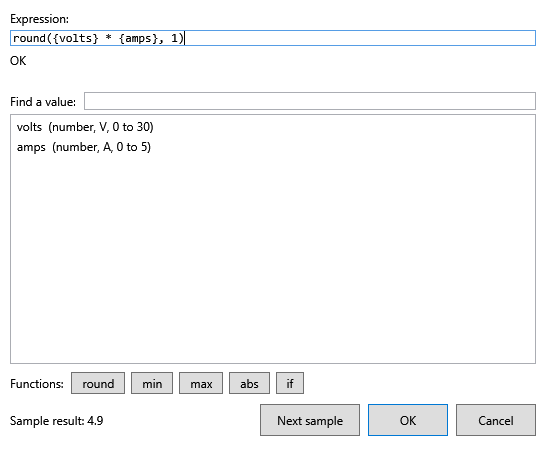
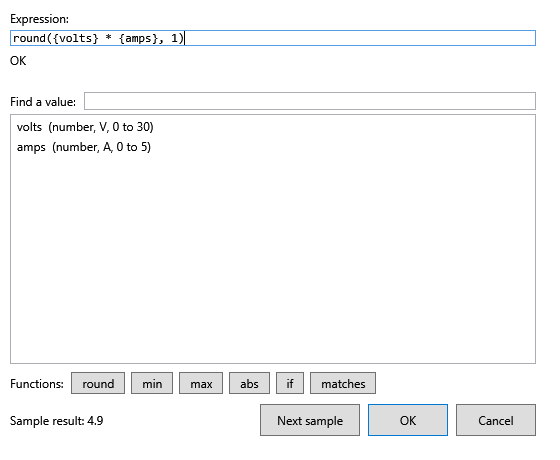
Expression picker: matches button; Next sample moves to the OK row in the TUI

Changed region(s): [[0.5464, 0.7913, 0.6982, 0.8826]]

diff --git a/src/DevTerm.DeviceManifests/Editing/ExpressionPickerViewModel.cs b/src/DevTerm.DeviceManifests/Editing/ExpressionPickerViewModel.cs
@@ -4,7 +4,7 @@ using DevTerm.UiDefinitions;
 namespace DevTerm.DeviceManifests.Editing;
 
 /// <summary>One function the expression language offers, with the snippet the picker inserts for it.</summary>
-public sealed record ExpressionFunction(string Name, string Signature, string Description, string Snippet);
+public sealed record ExpressionFunction(string Name, string Signature, string Description, string Snippet, int CaretFromEnd = 1);
 
 /// <summary>One row of the picker's path list: a <see cref="ValuePath"/> plus how to show it.</summary>
 public sealed record PickerPath(ValuePath Path, string Detail, string? Example)
@@ -40,6 +40,7 @@ public sealed class ExpressionPickerViewModel
         new("max", "max(a, b, ...)", "The largest argument.", "max()"),
         new("abs", "abs(x)", "The absolute value.", "abs()"),
         new("if", "if(cond, a, b)", "a when cond is non-zero, otherwise b.", "if()"),
+        new("matches", "matches(text, regex)", "1 when the text matches the regular expression (a literal regex is checked as you type).", "matches(, '')", CaretFromEnd: 5),
     ];
 
     private readonly IReadOnlyList<PickerPath> _allPaths;
@@ -238,11 +239,11 @@ public sealed class ExpressionPickerViewModel
         InsertAtCaret(path.Reference, path.Reference.Length);
     }
 
-    /// <summary>Inserts a function's snippet at the caret and leaves the caret between its parentheses.</summary>
+    /// <summary>Inserts a function's snippet at the caret and leaves the caret where the function's first argument goes.</summary>
     public void InsertFunction(ExpressionFunction function)
     {
         ArgumentNullException.ThrowIfNull(function);
-        InsertAtCaret(function.Snippet, function.Snippet.Length - 1);
+        InsertAtCaret(function.Snippet, function.Snippet.Length - function.CaretFromEnd);
     }
 
     /// <summary>Inserts an operator or literal at the caret (spaced when it is a binary operator).</summary>

diff --git a/src/DevTerm.Console/ExpressionPickerDialog.cs b/src/DevTerm.Console/ExpressionPickerDialog.cs
@@ -51,17 +51,9 @@ internal static class ExpressionPickerDialog
             previous = button;
         }
 
-        var nextSample = new Button { X = Pos.Right(previous!), Y = Pos.AnchorEnd(4), Text = "Next sample", ShadowStyle = ShadowStyles.None };
-        nextSample.Accepting += (_, e) =>
-        {
-            e.Handled = true;
-            viewModel.NextSample();
-        };
-
         dialog.Title = viewModel.Title;
         expressionLabel.Text = viewModel.Prompt;
         result.Visible = viewModel.ShowsResult;
-        nextSample.Visible = viewModel.ShowsResult;
         functionLabel.Visible = viewModel.ShowsFunctions;
         foreach (var button in functionButtons)
         {
@@ -82,6 +74,15 @@ internal static class ExpressionPickerDialog
             e.Handled = true;
             app.RequestStop();
         };
+
+        var nextSample = new Button { X = Pos.Right(cancel) + 1, Y = Pos.AnchorEnd(2), Text = "Next sample", ShadowStyle = ShadowStyles.None };
+        nextSample.Accepting += (_, e) =>
+        {
+            e.Handled = true;
+            viewModel.NextSample();
+        };
+
+        nextSample.Visible = viewModel.ShowsResult;
 
         var syncing = false;
 

diff --git a/tests/DevTerm.DeviceManifests.Tests/ExpressionPickerViewModelTests.cs b/tests/DevTerm.DeviceManifests.Tests/ExpressionPickerViewModelTests.cs
@@ -123,6 +123,7 @@ public sealed class ExpressionPickerViewModelTests
             ["max"] = "max(1, 2)",
             ["abs"] = "abs(-1)",
             ["if"] = "if(1, 2, 3)",
+            ["matches"] = "matches('abc', '^a')",
         };
 
         foreach (var function in ExpressionPickerViewModel.Functions)
@@ -288,5 +289,19 @@ public sealed class ExpressionPickerViewModelTests
         var picker = Create("startsWith({banner}, 'sample') ? 'ok' : 'no'");
 
         Assert.AreEqual("\"ok\"", picker.ResultText);
+    }
+
+    [TestMethod]
+    public void MatchesFunction_InsertsATemplate_WithTheCaretOnTheTextArgument()
+    {
+        var picker = new ExpressionPickerViewModel([new ValuePath("model", ValuePathType.Text, ValuePathSource.ResponsePattern, "id")]);
+        var matches = ExpressionPickerViewModel.Functions.Single(f => f.Name == "matches");
+
+        picker.InsertFunction(matches);
+        Assert.AreEqual("matches(, '')", picker.Text);
+        Assert.AreEqual(8, picker.CaretIndex);
+
+        picker.InsertPath(picker.AllPaths[0]);
+        Assert.AreEqual("matches({model}, '')", picker.Text);
     }
 }

diff --git a/docs/design/proposals/expression-picker-paths-and-cel.md b/docs/design/proposals/expression-picker-paths-and-cel.md
@@ -156,6 +156,6 @@ processes; numbers walk smoothly inside Minimum/Maximum, booleans alternate, cho
 playback-log preference tier is not built. **Declared-example tier built (2026-10-02):** `ResponsePattern.Example` (an optional sample reply line) is run through the pattern, `ValuePath.Example` carries each capture, and `SampleDataGenerator` starts there (step 0 is the example, text keeps it, numbers wander a few percent); the validator warns when an example doesn't match its regex. **Picker built (2026-10-02):** `ExpressionPickerViewModel`
 (`ExpressionPickerViewModelTests`) with a TUI `ExpressionPickerDialog` and WPF `ExpressionPickerWindow`, reached from **Pick...**
 beside an indicator's Expression field ([spec](../../specs/expression-picker.md)); Pick... was extended the same day to chart Channels, button Parameter expressions, vector/color ids and visible-when.
-**Language extension, first part built (2026-10-02):** `Expression` now has string values (single- or double-quoted literals, `+` concatenation, ordinal comparisons), `matches(text, regex)` (a literal pattern is compiled at parse time, so a bad one is a parse error; a computed bad pattern or a 100 ms timeout evaluates to false), `contains`/`startsWith`/`endsWith`, `size`, `number`, `string`, `has({id})`, `!` and `cond ? a : b`, via `Evaluate(numbers, text)`; `Evaluate(numbers)` is unchanged (`ExpressionTextTests`). **Lists built (2026-10-02):** `[a, b]`, `x[i]`, `x in list`, `split`/`join`, `size` and `contains` on lists, bare and dotted identifiers (the same as `{id}`, which stays what the picker inserts) and `true`/`false` (`ExpressionListTests`). Not built: binary-frame paths (`header.length`, `samples[0]` as catalog entries, which needs a profile that declares a frame), regex-building in the picker, function buttons for the new functions. Live displays now pass the published text: `LiveDisplayState` keeps each referenced id's raw text, so an indicator can show `matches({model}, '^KA') ? 'Korad' : 'Other'` (`IndicatorStateTests`); a bar/strip channel reads text, and a strip chart adds a sample for an expression channel when only its text changes. The picker preview gets sample text for text paths (`SampleDataGenerator.TextValues`) and button parameter expressions see each sibling control's text. Scope decision (2026-10-02): profiles, not `.ksy`
+**Language extension, first part built (2026-10-02):** `Expression` now has string values (single- or double-quoted literals, `+` concatenation, ordinal comparisons), `matches(text, regex)` (a literal pattern is compiled at parse time, so a bad one is a parse error; a computed bad pattern or a 100 ms timeout evaluates to false), `contains`/`startsWith`/`endsWith`, `size`, `number`, `string`, `has({id})`, `!` and `cond ? a : b`, via `Evaluate(numbers, text)`; `Evaluate(numbers)` is unchanged (`ExpressionTextTests`). **Lists built (2026-10-02):** `[a, b]`, `x[i]`, `x in list`, `split`/`join`, `size` and `contains` on lists, bare and dotted identifiers (the same as `{id}`, which stays what the picker inserts) and `true`/`false` (`ExpressionListTests`). Not built: binary-frame paths (`header.length`, `samples[0]` as catalog entries, which needs a profile that declares a frame), a regex tester pane in the picker, function buttons for the other new functions. **Regex helper (2026-10-02):** the picker has a `matches` button that inserts `matches(, '')` with the caret on the text argument; a literal regex is checked live by the existing diagnostics. Decision: the picker inserts and checks `matches()` rather than hosting a separate tester pane, since the editor's Pattern form already has a sample-line tester. Live displays now pass the published text: `LiveDisplayState` keeps each referenced id's raw text, so an indicator can show `matches({model}, '^KA') ? 'Korad' : 'Other'` (`IndicatorStateTests`); a bar/strip channel reads text, and a strip chart adds a sample for an expression channel when only its text changes. The picker preview gets sample text for text paths (`SampleDataGenerator.TextValues`) and button parameter expressions see each sibling control's text. Scope decision (2026-10-02): profiles, not `.ksy`
 files, are the input. Related:
 [expression builder](manifest-editor-expression-builder.md), [schema files](format-schema-files.md).

diff --git a/docs/specs/expression-picker.md b/docs/specs/expression-picker.md
@@ -26,13 +26,14 @@ button's Parameter expressions, vector/color value ids and visible-when. Shared 
 |---|---|
 | Choose a path (Enter / double-click) | Inserts `{id}` at the caret, replacing any selection. |
 | Function buttons (`round`, `min`, `max`, `abs`, `if`) | Insert `name()` with the caret between the parentheses. |
+| `matches` button | Inserts `matches(, '')` with the caret on the text argument; choose a value, then type the regex between the quotes (a literal regex that doesn't compile shows as an error as you type). |
 | Next sample | Advances the sample data; the result changes. |
 | OK | Returns the expression to the form field. |
 | Cancel | Leaves the field unchanged. |
 
 ## Text expressions
 
-The picker has no buttons for the text functions, but typing them works and the diagnostics check them: `matches(text, regex)`
+The picker has a button only for `matches`; the other text functions are typed and the diagnostics check them: `matches(text, regex)`
 (a literal regex that doesn't compile is an error), `contains`, `startsWith`, `endsWith`, `size`, `number`, `string`,
 `has({id})`, `!x` and `cond ? a : b`, with `'single'` or `"double"` quoted strings and `+` to join them. On a live indicator
 or chart, `{id}` is the device's published text: arithmetic still reads the number out of `"12.5 V"`, while string functions see the
@@ -66,7 +67,7 @@ the picker opens until **Next sample** is pressed.
 
 ## Per-front-end notes
 
-- TUI: a modal `Dialog` sized to the screen (up to 78x24); **Pick...** is a button after the field.
+- TUI: a modal `Dialog` sized to the screen (up to 78x24); **Pick...** is a button after the field. **Next sample** sits beside OK/Cancel, since the function row is full.
 - WPF: a modal `ExpressionPickerWindow` owned by the editor; **Pick...** is docked right of the field.
 
 ## Open items

diff --git a/docs/user-guide/manifest-editor.md b/docs/user-guide/manifest-editor.md
@@ -35,7 +35,7 @@ compute and send a derived value. See [`docs/specs/manifest-editor.md`](../specs
 Fields table for the exact grammar and syntax.
 
 An indicator's Expression field has a **Pick...** button that opens the expression picker: choose from the
-manifest's own values (with type, unit and range), insert `round`/`min`/`max`/`abs`/`if`, and watch the
+manifest's own values (with type, unit and range), insert `round`/`min`/`max`/`abs`/`if`/`matches`, and watch the
 diagnostics and the result against sample data update as you type. **OK** puts the expression back in the field.
 Every field that names a value has a **Pick...** button too: a bar graph or strip chart's **Channels** (choosing a value
 adds a channel), a button's **Parameter expressions**, a vector's coordinate ids, a color control's hue/saturation/brightness ids

diff --git a/docs/changes/2026-10-02.md b/docs/changes/2026-10-02.md
@@ -315,3 +315,5 @@ series at it and wanders about 5% around it, text paths keep it, and the validat
 Reset Accumulated verified on the real Radex One (accumulated 858 -> 0, 18-byte ack); see the new section in docs/test/2026-10-02-14-42-26.md.
 
 Write Settings verified on the real Radex One (changed, read back, restored); see docs/test/2026-10-02-14-42-26.md.
+
+Expression picker: a `matches` function button (inserts `matches(, '')`, caret on the text argument; `ExpressionFunction` gained `CaretFromEnd`). The TUI's **Next sample** moved to the OK/Cancel row because the function row no longer fit 80 columns. Regex-building is decided as insert-and-check, not a separate tester pane (the Pattern form already has one).

diff --git a/TODO.md b/TODO.md
@@ -24,7 +24,7 @@ Completed work is logged by date under `docs/changes/`.
 
   **Remaining:**
   - From the proposals' own "not built" lists: the sample-data generator's playback-log
-    tier (the declared-example tier is built), regex-building in the picker, `.ksy` bit fields / variable-length frames /
+    tier (the declared-example tier is built), `.ksy` bit fields / variable-length frames /
     checksums.
   - Small gaps found 2026-10-02:
     - Bench passes for the K8055, Busylight and Zoom H4n, whose `known-configuration.md` pages lean on earlier docs for
